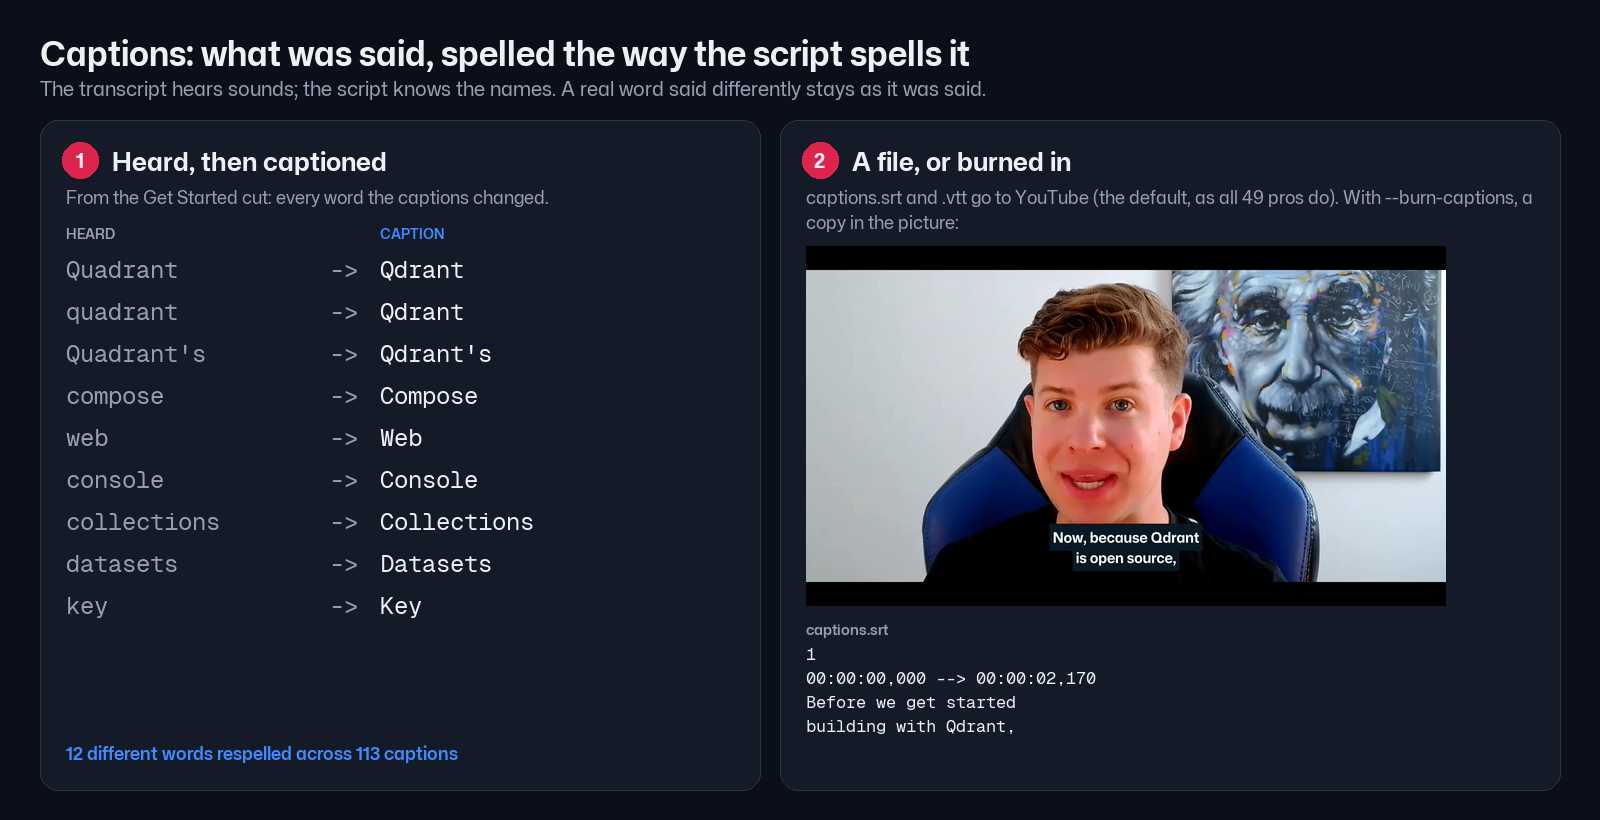
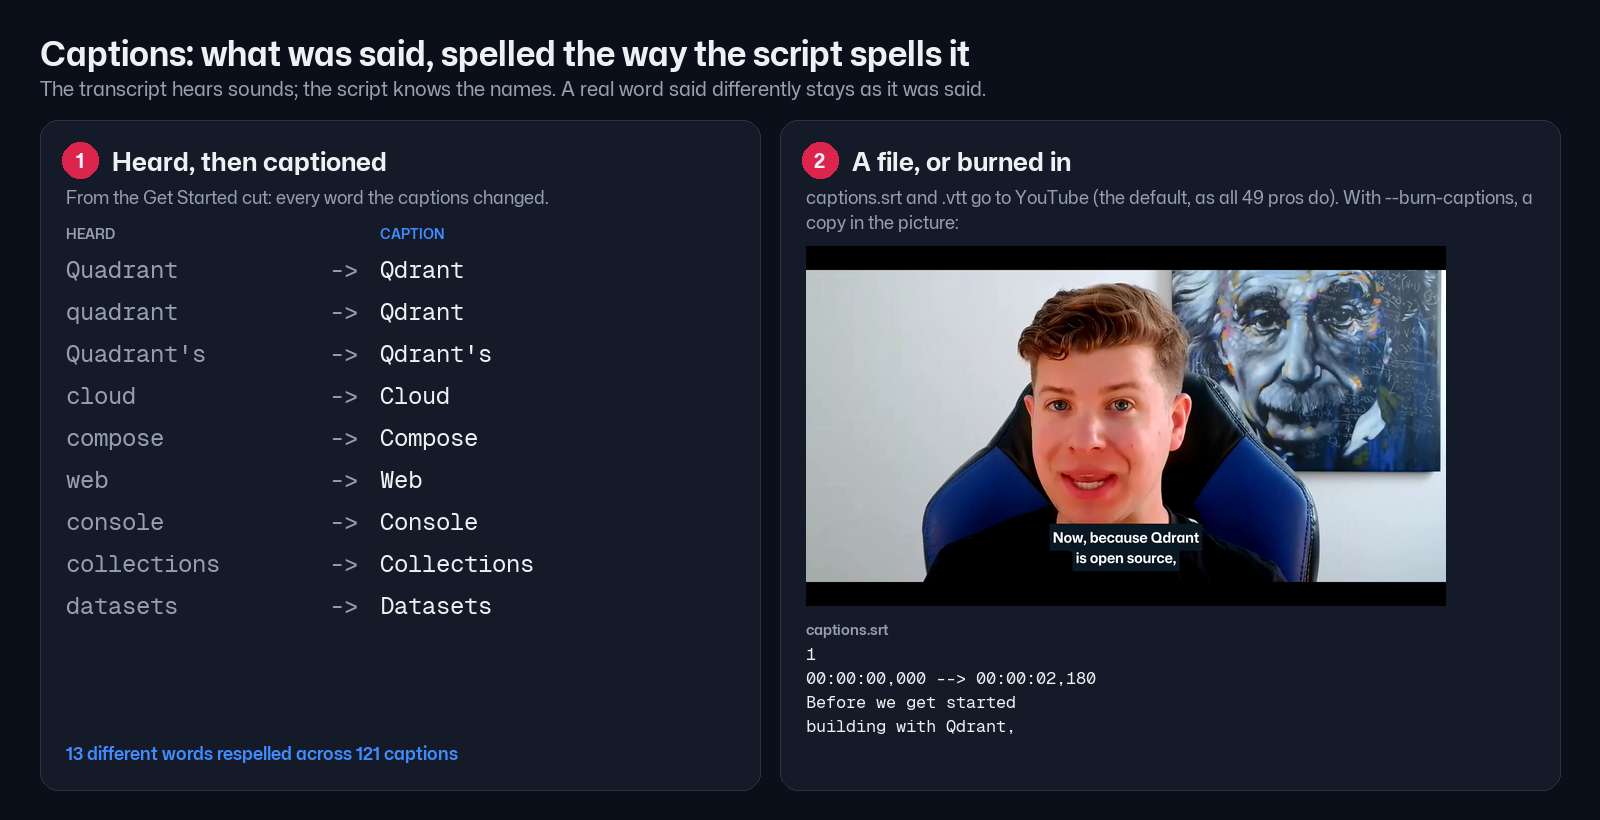
Captions from the video's own sound, not the take's transcript placed through the cut list
Around a restart the take's word times smear: Get Started's captions lost 143 words, mostly sentence openings
("Make sure you subscribe" at 5:18), all of them in the cut. captions.py now transcribes VIDEO itself (heard.json,
cached); --words stays as the old way. faster-whisper loads without av where a policy blocks its DLL.
Self-test: a spoken line (Windows system voice) captioned in full, Quadrant as Qdrant.

diff --git a/skills/audio-captions/scripts/captions.py b/skills/audio-captions/scripts/captions.py
@@ -1,11 +1,13 @@
 #!/usr/bin/env python
 """captions.py: captions for a cut, spelled the way the script spells things, as a subtitle file and burned into the video.
 
-  python captions.py VIDEO.mp4 --cutlist cutlist.md --words words.json [--script SCRIPT.md] --out DIR [--burn]
+  python captions.py VIDEO.mp4 --cutlist cutlist.md [--script SCRIPT.md] --out DIR [--burn] [--words words.json]
       -> DIR/captions.srt, captions.vtt (upload to YouTube), captions.ass, and with --burn DIR/captioned.mp4
 
-VIDEO is anything on the cut's timeline (the cut, cut_voice.mp4, or the styled video). The words are the take's transcript
-in source time (editing's words.json), placed on the cut through the cut list.
+VIDEO is anything on the cut's timeline (the cut, cut_voice.mp4, or the styled video). Its own sound is transcribed
+(DIR/heard.json, kept for the next run), so the captions are what the viewer hears. The take's transcript placed through
+the cut list (--words) is the old way: around a restart its word times smear, and Get Started's captions lost "Make sure
+you subscribe" at 5:18 that way, with the words plainly in the cut.
 
   spelling   what was said wins, spelled as the script spells it: each line's words are aligned to its script line and a
              word that is a close miss of the script's word takes the script's spelling ("Quadrant" -> "Qdrant", "web ui"
@@ -42,6 +44,30 @@ def placed(words, R):
     for t, a, b, line in R:
         ws = [(w["w"], round(t + max(w["s"], a) - a, 3), round(t + min(w["e"], b) - a, 3)) for w in words
               if min(w["e"], b) - max(w["s"], a) >= min(0.08, 0.5 * max(0.01, w["e"] - w["s"]))]
+        if line.startswith("(same line") and out: out[-1][0].extend(ws)
+        else: out.append([ws, line])
+    return out
+
+def hear(video, cache):
+    """the video's own words on its own timeline: [{w, s, e}]"""
+    if os.path.exists(cache) and os.path.getmtime(cache) > os.path.getmtime(video): return json.load(open(cache, encoding="utf-8"))
+    try: import av                                                     # faster-whisper imports av only to read files; on a machine
+    except ImportError: sys.modules["av"] = type(sys)("av")            # whose policy blocks av's DLL, the audio goes in as an array
+    from faster_whisper import WhisperModel
+    import numpy as np
+    x = np.frombuffer(subprocess.run([FF, "-v", "error", "-i", video, "-ac", "1", "-ar", "16000", "-f", "s16le", "-"], capture_output=True).stdout,
+                      np.int16).astype(np.float32) / 32768
+    segs, _ = WhisperModel("small.en", device="cpu", compute_type="int8").transcribe(x, language="en", beam_size=5, word_timestamps=True,
+                                                                                     condition_on_previous_text=False)
+    W = [dict(w=w.word.strip(), s=round(w.start, 3), e=round(w.end, 3)) for sg in segs for w in (sg.words or []) if w.word.strip()]
+    json.dump(W, open(cache, "w", encoding="utf-8")); return W
+
+def heard_groups(W, R):
+    """the heard words grouped by script line: each word goes to the cut list row its middle falls in"""
+    out, starts = [], [t for t, _, _, _ in R]
+    for k, (t, a, b, line) in enumerate(R):
+        end = starts[k + 1] if k + 1 < len(starts) else 1e9
+        ws = [(w["w"], w["s"], w["e"]) for w in W if t <= (w["s"] + w["e"]) / 2 < end]
         if line.startswith("(same line") and out: out[-1][0].extend(ws)
         else: out.append([ws, line])
     return out
@@ -141,11 +167,12 @@ def write_ass(C, p, W, H, st, words=None):
 
 def main():
     ap = argparse.ArgumentParser(description=__doc__, formatter_class=argparse.RawDescriptionHelpFormatter)
-    ap.add_argument("video"); ap.add_argument("--cutlist", required=True); ap.add_argument("--words", required=True); ap.add_argument("--script")
+    ap.add_argument("video"); ap.add_argument("--cutlist", required=True); ap.add_argument("--words", help="the take's transcript placed through the cut list, instead of hearing VIDEO"); ap.add_argument("--script")
     ap.add_argument("--out", required=True); ap.add_argument("--burn", action="store_true"); ap.add_argument("--style", default=os.path.join(SKILL, "references", "caption_style.json"))
     a = ap.parse_args(); os.makedirs(a.out, exist_ok=True); G = glossary()
-    st = json.load(open(a.style, encoding="utf-8")); W_ = json.load(open(a.words, encoding="utf-8"))
-    groups = placed(W_, rows(a.cutlist)); words = [w for g, line in groups for w in respell(g, line if not line.startswith("(") else "", G)]
+    st = json.load(open(a.style, encoding="utf-8")); R = rows(a.cutlist)
+    groups = placed(json.load(open(a.words, encoding="utf-8")), R) if a.words else heard_groups(hear(a.video, os.path.join(a.out, "heard.json")), R)
+    words = [w for g, line in groups for w in respell(g, line if not line.startswith("(") else "", G)]
     words = sentence_case(sorted(words, key=lambda w: w[1]))
     C = cues(words, **SRT_RULES); write_srt(C, os.path.join(a.out, "captions.srt")); write_vtt(C, os.path.join(a.out, "captions.vtt"))
     B = cues(words, st["chars"], st["lines"], st["min_s"], st["max_s"], st["cps"])

diff --git a/skills/audio-captions/scripts/selftest.py b/skills/audio-captions/scripts/selftest.py
@@ -9,9 +9,11 @@ voice      a two-piece take, the second 7 dB quieter, with a 60 Hz hum and room 
 captions   a transcript saying "quadrant" and "started" for a script that says "Qdrant" and "start" -> "Qdrant" (a
            misspelling of the script's word), "started" kept (a real word that was said); "web ui" -> "Web UI";
            "Quadrant's" -> "Qdrant's" (the possessive kept); "quadrant .tech" -> "qdrant.tech" (one web address)
+hearing    a spoken test line (a Windows system voice) captioned from the video's own sound, with no word list: every
+           phrase there, "Quadrant" as "Qdrant"
 checks     a subtitle file with "Quadrant", a 60-character line and two overlapping cues -> each a fix; a clean one -> none
 """
-import argparse, json, os, subprocess, sys, wave
+import argparse, json, os, shutil, subprocess, sys, wave
 import numpy as np, imageio_ffmpeg
 HERE = os.path.dirname(os.path.abspath(__file__)); sys.path.insert(0, HERE)
 FF = imageio_ffmpeg.get_ffmpeg_exe(); SR = 48000
@@ -70,9 +72,28 @@ def checks_test(out):
     for f in extra: print(f"  INVENTED checks   {f['kind']}: {f['msg']}")
     return ok and not extra
 
+def hear_test(out):
+    """captions from the video's own sound: a spoken take whose word list would be wrong is still captioned in full"""
+    wav = os.path.join(out, "spoken.wav"); mp4 = os.path.join(out, "spoken.mp4")
+    say = "Make sure you subscribe to the Quadrant YouTube channel. You can also visit the docs."
+    if os.name != "nt" or subprocess.run(["powershell", "-NoProfile", "-Command", "Add-Type -AssemblyName System.Speech; $s = New-Object System.Speech.Synthesis.SpeechSynthesizer; "
+                                          f"$s.SetOutputToWaveFile('{os.path.abspath(wav)}'); $s.Speak('{say}'); $s.Dispose()"], capture_output=True).returncode or not os.path.exists(wav):
+        print("  skipped  captions heard from the video (no system voice to speak a test line)"); return True
+    subprocess.run([FF, "-v", "error", "-y", "-f", "lavfi", "-i", "color=c=gray:s=320x180:r=25", "-i", wav, "-c:v", "libx264", "-c:a", "aac", "-shortest", mp4], check=True)
+    open(os.path.join(out, "spoken_cutlist.md"), "w").write("| edit time | source | push | script line | said | take |\n|---|---|---|---|---|---|\n"
+        "| 0.00 | 0.00-3.50 | x1.00 | Make sure you subscribe to the Qdrant YouTube channel. | x | t |\n| 3.50 | 3.50-9.00 | x1.00 | You can also visit the docs. | x | t |\n")
+    cap = os.path.join(out, "spoken_captions"); shutil.rmtree(cap, ignore_errors=True)
+    subprocess.run([sys.executable, os.path.join(HERE, "captions.py"), mp4, "--cutlist", os.path.join(out, "spoken_cutlist.md"), "--out", cap], check=True, capture_output=True)
+    text = " ".join(open(os.path.join(cap, "captions.srt"), encoding="utf-8").read().split())
+    ok = True
+    for what, good in (('"Make sure you subscribe" heard', "Make sure you subscribe" in text), ('"Quadrant" heard, captioned "Qdrant"', "Qdrant" in text and "Quadrant" not in text),
+                       ('the last line heard', "visit the docs" in text)):
+        print(f"  {'caught' if good else 'MISSED'}  captions {what}" + ("" if good else f"  -> {text[:120]}")); ok &= good
+    return ok
+
 def main():
     ap = argparse.ArgumentParser(); ap.add_argument("--out", default="audio_captions_selftest"); a = ap.parse_args(); os.makedirs(a.out, exist_ok=True)
-    ok = voice_test(a.out) & caption_test(a.out) & checks_test(a.out)
+    ok = voice_test(a.out) & caption_test(a.out) & hear_test(a.out) & checks_test(a.out)
     print("SELF-TEST PASSED" if ok else "SELF-TEST FAILED"); return 0 if ok else 1
 
 if __name__ == "__main__":

diff --git a/skills/audio-captions/scripts/make_images.py b/skills/audio-captions/scripts/make_images.py
@@ -3,8 +3,8 @@
 
   python make_images.py --cut CUT_DIR --captions CAPTIONS_DIR --script SCRIPT.md --audit CORPUS_DIR --out ../images
 
-CUT_DIR holds cut.mp4, cut_voice.mp4, cutlist.md, words.json and voice.json (the voice stage's outputs); CAPTIONS_DIR is
-captions.py's output for that cut; CORPUS_DIR holds audio_captions_audit/ and voice_measure_49.json.
+CUT_DIR holds cut.mp4, cut_voice.mp4, cutlist.md and voice.json (the voice stage's outputs); CAPTIONS_DIR is
+captions.py's output for that cut (with heard.json); CORPUS_DIR holds audio_captions_audit/ and voice_measure_49.json.
 
   how-it-works.png   the four steps: measure, clean only what is needed, even the pieces, captions from the script
   voice-levels.png   every piece of the cut, before and after evening
@@ -25,10 +25,10 @@ def levels(cut_dir):
     b = V.measure(V.decode(os.path.join(cut_dir, "cut.mp4")), P); a = V.measure(V.decode(os.path.join(cut_dir, "cut_voice.mp4")), P)
     return b, a
 
-def respelled(cut_dir, script):
-    """(heard, caption) pairs where the caption changed what the transcript wrote"""
-    W = json.load(open(os.path.join(cut_dir, "words.json"), encoding="utf-8")); G = CP.glossary(); out = []
-    for g, line in CP.placed(W, CP.rows(os.path.join(cut_dir, "cutlist.md"))):
+def respelled(cut_dir, cap_dir):
+    """(heard, caption) pairs where the caption changed what the transcript heard"""
+    W = json.load(open(os.path.join(cap_dir, "heard.json"), encoding="utf-8")); G = CP.glossary(); out = []
+    for g, line in CP.heard_groups(W, CP.rows(os.path.join(cut_dir, "cutlist.md"))):
         for (h, _, _), (c, _, _) in zip(g, CP.respell(g, line if not line.startswith("(") else "", G)):
             if h.strip(".,?!") != c.strip(".,?!") and (h.strip(".,?!"), c.strip(".,?!")) not in out: out.append((h.strip(".,?!"), c.strip(".,?!")))
     return sorted(out, key=lambda hc: CP.norm(hc[0]) == CP.norm(hc[1]))      # real misspellings first, then capitals for names
@@ -149,7 +149,7 @@ def main():
     ap.add_argument("--cut", required=True); ap.add_argument("--captions", required=True); ap.add_argument("--script", required=True)
     ap.add_argument("--audit", required=True); ap.add_argument("--out", default=os.path.join(os.path.dirname(HERE), "images"))
     a = ap.parse_args(); os.makedirs(a.out, exist_ok=True)
-    B, A = levels(a.cut); pairs = respelled(a.cut, a.script); rep = json.load(open(os.path.join(a.cut, "voice.json")))
+    B, A = levels(a.cut); pairs = respelled(a.cut, a.captions); rep = json.load(open(os.path.join(a.cut, "voice.json")))
     print("respelled:", pairs)
     frame = burned_frame(a.cut, a.captions, 5.0, os.path.join(a.captions, "frame_burned.png"))
     voice_levels(B, A, os.path.join(a.out, "voice-levels.png"))

diff --git a/skills/video-builder/scripts/build.py b/skills/video-builder/scripts/build.py
@@ -220,7 +220,7 @@ class Build:
         outs = [self.p("captions", "captions.srt")] + ([self.p("captions", "captioned.mp4")] if burn else [])
         if self.done("captions", outs): return outs, "kept"
         tail = run([PY, os.path.join(SK, "audio-captions", "scripts", "captions.py"), self.p("video_master.mp4"), "--cutlist", self.p("cut", "cutlist.md"),
-                    "--words", self.p("cut", "words.json"), "--script", self.a.script, "--out", self.p("captions")] + (["--burn"] if burn else []), self.p("captions.log"))
+                    "--script", self.a.script, "--out", self.p("captions")] + (["--burn"] if burn else []), self.p("captions.log"))
         return outs, next((l.strip() for l in tail if "subtitles" in l), "captions written")
     def master(self):
         out = self.p("video_master.mp4")

diff --git a/skills/audio-captions/SKILL.md b/skills/audio-captions/SKILL.md
@@ -18,7 +18,7 @@ spelled. This skill does both, measuring the take first and fixing only what it 
    high-pass only when over 5% of the energy is under 100 Hz; a notch only for a mains hum 6 dB out of the quiet. A clean
    take is left alone.
 3. **The voice stays on the lips.** Every filter's delay is measured and taken back; the length is kept to the sample.
-4. **Captions are what was said, spelled as the script spells it.** A word heard close to the script's word takes the
+4. **Captions are what the viewer hears, spelled as the script spells it.** The video's own sound is transcribed. A word heard close to the script's word takes the
    script's spelling ("quadrant" -> "Qdrant", "web ui" -> "Web UI"); a real word that differs was said, and stays. Then
    `references/glossary.txt` for names the script does not carry.
 5. **A file by default, burned in on request.** None of the 49 pro videos burns captions in. SRT and VTT to upload;
@@ -36,13 +36,15 @@ the captions stage after the master (`captions/`). `build.py --burn-captions` ad
 ```bash
 S=~/.claude/skills/audio-captions/scripts
 python $S/voice_clean.py CUT/cut.mp4 --out CUT/cut_voice.mp4 --cutlist CUT/cutlist.md --report CUT/voice.json
-python $S/captions.py VIDEO.mp4 --cutlist CUT/cutlist.md --words CUT/words.json --script SCRIPT.md --out CAPTIONS [--burn]
+python $S/captions.py VIDEO.mp4 --cutlist CUT/cutlist.md --script SCRIPT.md --out CAPTIONS [--burn]
 python $S/checks.py --srt CAPTIONS/captions.srt --voice CUT/voice.json     # exit 1 if anything is to fix
 python $S/selftest.py                                                       # the tools still catch what they should
 ```
 
-VIDEO is anything on the cut's timeline (the cut, the cleaned cut, the styled master). `words.json` is the take's
-transcript in source time (the cut stage writes it).
+VIDEO is anything on the cut's timeline (the cut, the cleaned cut, the styled master). Its own sound is transcribed
+(`CAPTIONS/heard.json`), so the captions are what the viewer hears. Do not caption from the take's transcript placed
+through the cut list (`--words`): around a restart its word times smear, and Get Started's captions lost 143 words that
+way, sentence openings above all ("Make sure you subscribe" at 5:18), with every one of them in the cut.
 
 ![Captions spelled the way the script spells things](images/captions.png)
 
